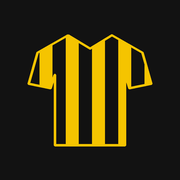
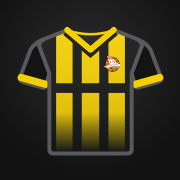
Icono nuevo con la camiseta del Barajas
Claude-Session: https://claude.ai/code/session_01SfJqeyYBuHTvsspWvYzGkX

diff --git a/index.html b/index.html
@@ -10,8 +10,8 @@
 <meta name="apple-mobile-web-app-status-bar-style" content="black-translucent">
 <meta name="theme-color" content="#000000">
 <script>try{document.documentElement.dataset.theme=localStorage.getItem("tema")||"dark";document.documentElement.dataset.size=localStorage.getItem("letra")||"n";document.documentElement.dataset.eq=localStorage.getItem("equipos")||"cam"}catch(e){document.documentElement.dataset.theme="dark";document.documentElement.dataset.size="n";document.documentElement.dataset.eq="cam"}</script>
-<link rel="apple-touch-icon" href="icon.png">
-<link rel="icon" href="icon.png">
+<link rel="apple-touch-icon" href="icon.png?v=2">
+<link rel="icon" href="icon-512.png?v=2">
 <style>
 /* Estilo app de iPhone: fondo agrupado, tarjetas redondeadas, barra de pestañas inferior translúcida */
 :root{
